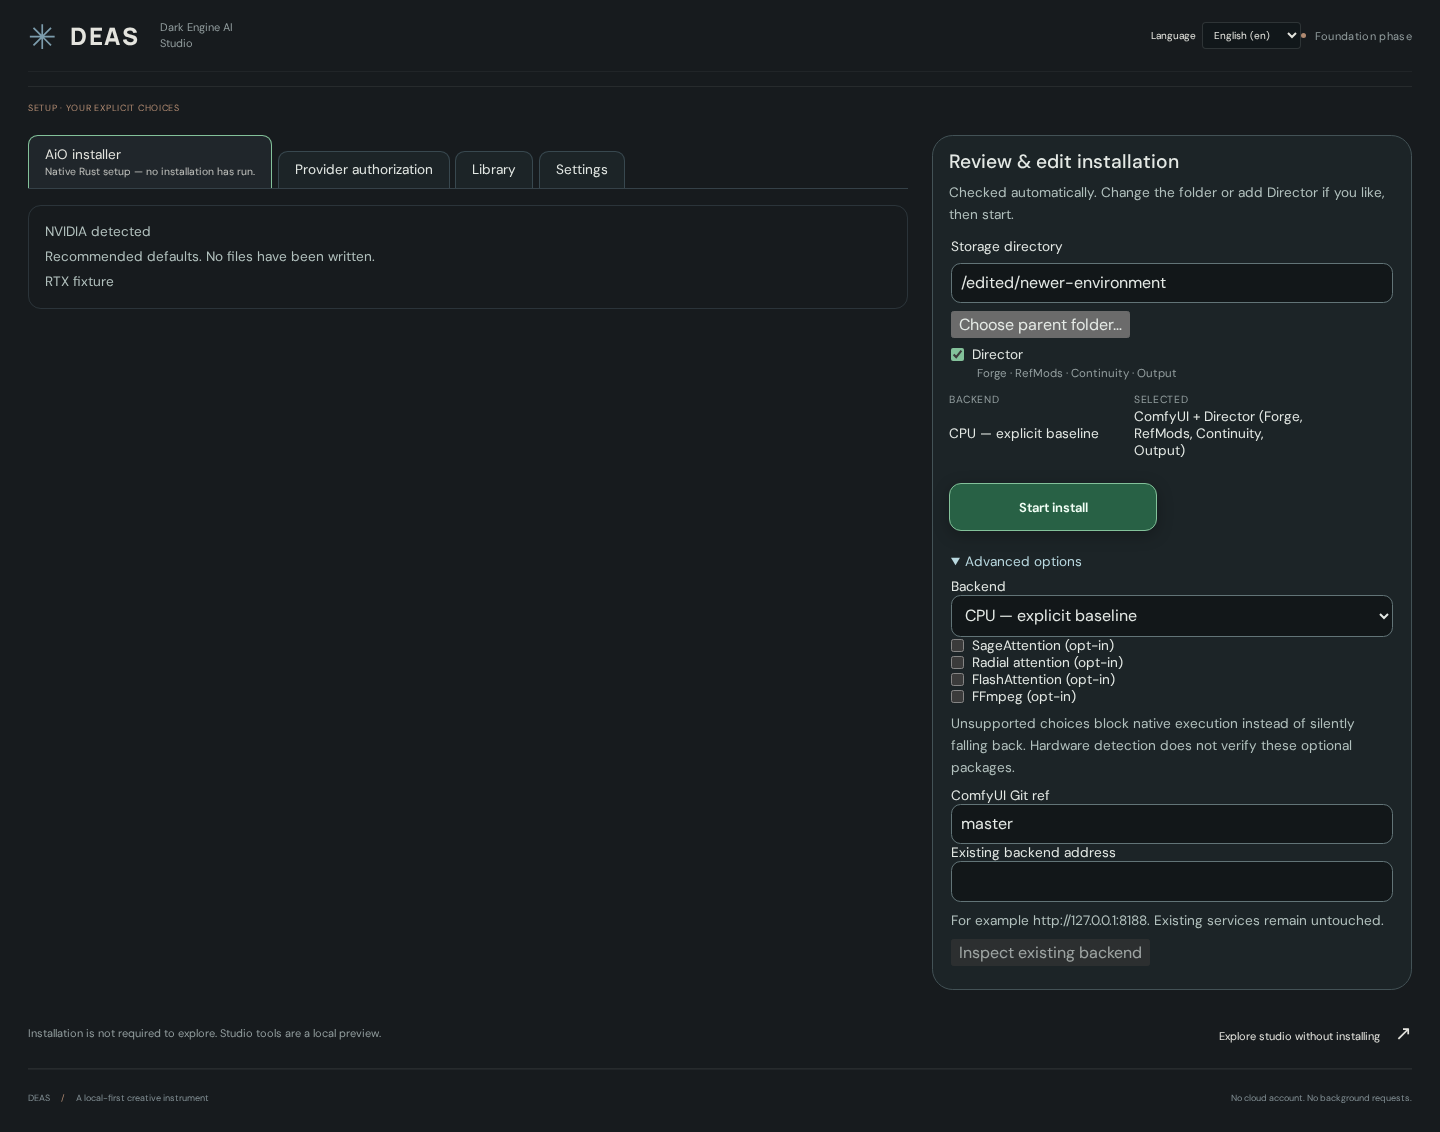
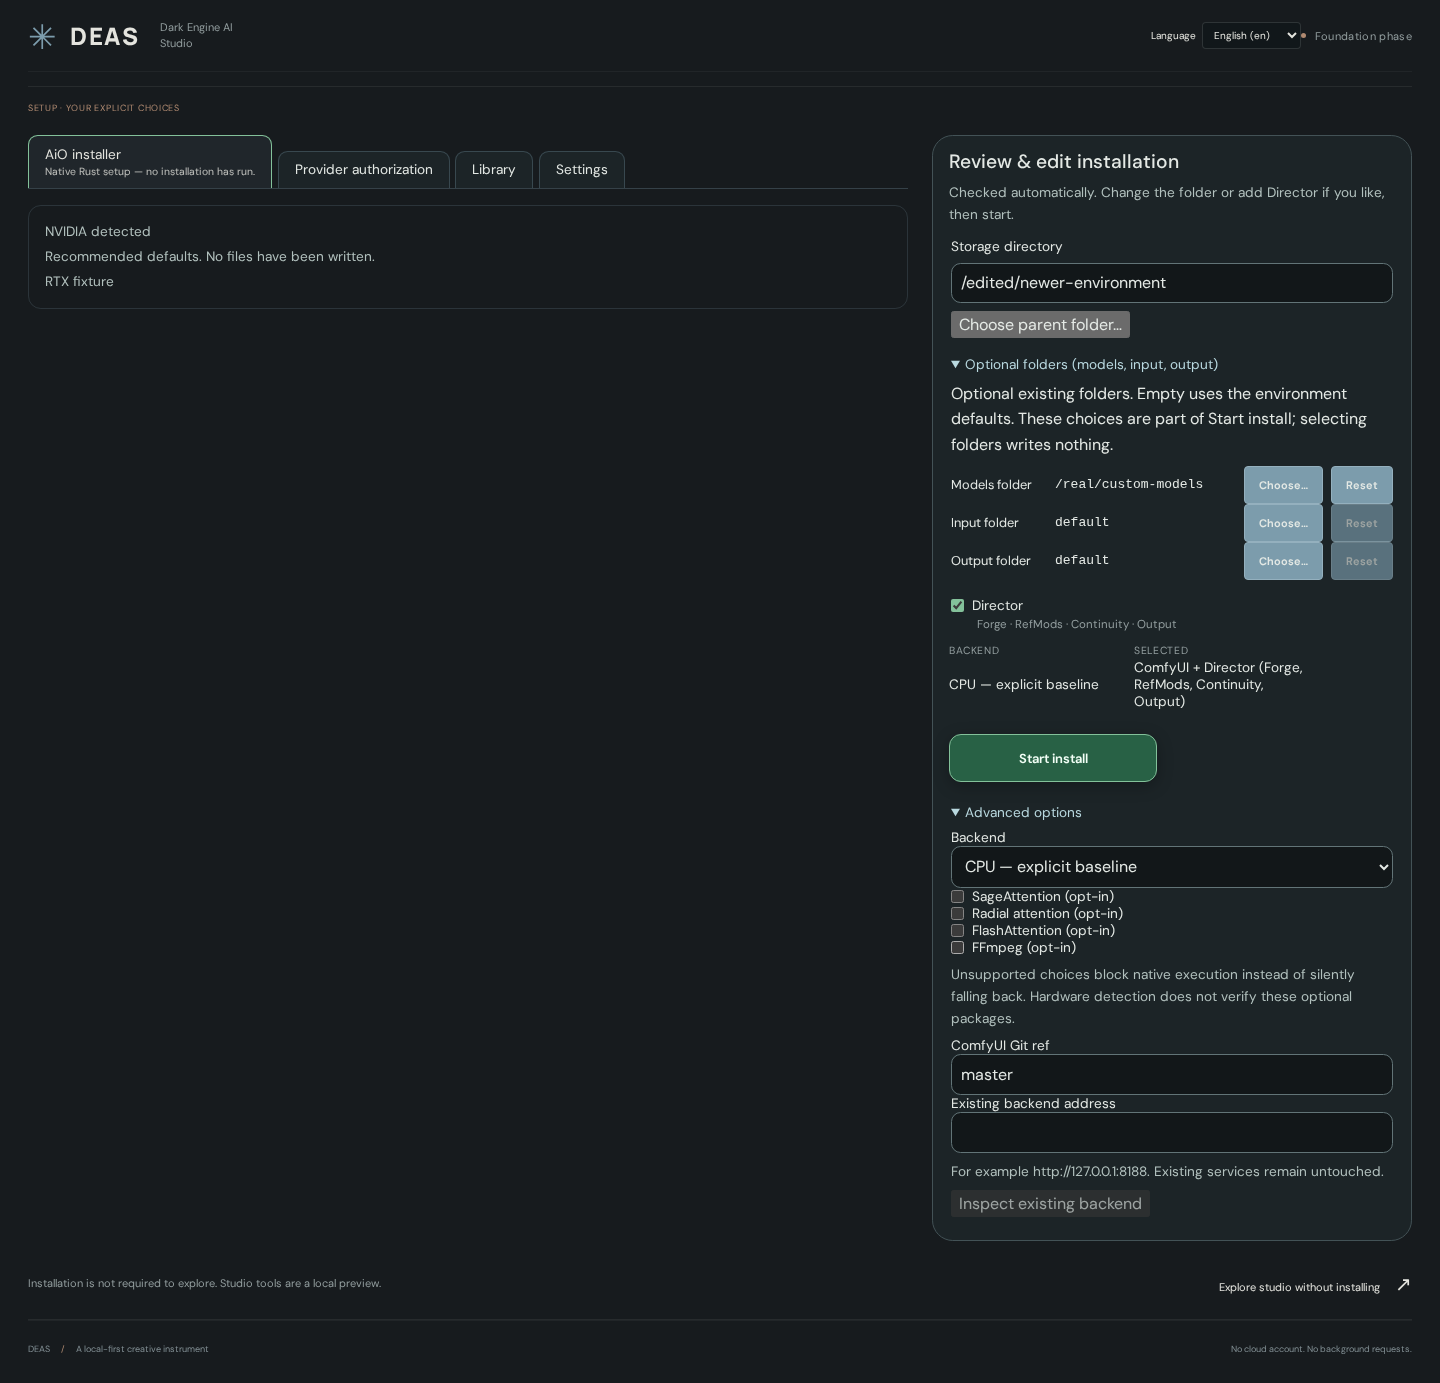
docs: refresh README for 0.1.8 tab-strip UI with current fixture screenshots

diff --git a/README.md b/README.md
@@ -1,10 +1,10 @@
 # DEAS — Dark Engine AI Studio
 
-DEAS is a Rust/Tauri desktop studio with a single-page neural interface for ComfyUI and DaSiWa tools. Connected organic feature blobs show what belongs together; selecting a blob opens its controls within the page.
+DEAS is a Rust/Tauri desktop studio for ComfyUI and DaSiWa tools. Setup is a tab strip — AiO installer, Provider authorization, Library, Settings — with a persistent install review panel. The studio preview shows a workspace map of connected feature blobs; selecting a blob opens its controls within the page.
 
 ## Desktop preview
 
-![DEAS native automatic setup](assets/deas-native-automatic-review.png)
+![Setup tab strip with the install review panel — browser fixture](assets/deas-automatic-fixture-1440.png)
 
 ## Setup path
 
@@ -12,7 +12,13 @@ Setup is one automatic path. A top tab strip carries the Installer tab (pulsing 
 
 Shared `NeuralBlob`, `NeuralPath`, `NeuralGraph` and reusable `NeuralIncludedFeatures` components serve both setup and studio features. Roads offer light, moving cat paws and off modes, with reduced-motion support. See [primitive ownership and references](docs/NEURAL-PRIMITIVES.md).
 
-![Compact capability staircase and history](assets/deas-director-included-1440.png)
+![Install-to-studio handoff with the owned backend running — browser fixture](assets/deas-studio-handoff-fixture-1440.png)
+
+## Studio preview
+
+A successful approved installation opens the studio automatically with **Video**, **Image** and **Workspace map** tabs. The media library loads images and videos via drop or native folder browsing, previews them in browser tabs, and lists exported job outputs. The workspace map shows the Engine, Director and plugin blobs with selectable road animation (Light · Paws · Off). Diagnostic jobs, read-only API checks and the media library are live; inference and editing controls arrive in separate steps.
+
+![Media library with a loaded preview — browser fixture](assets/deas-media-start-1440.png)
 
 ## All-in-one vision — early alpha
 
@@ -26,7 +32,7 @@ Current alpha: **0.1.8** — automatic setup with tab-strip review, installation
 
 The first milestone builds the desktop shell, interactive studio, trusted built-in feature registry and read-only ComfyUI discovery. This is **not yet the completed AiO installer or a generation-ready Director replacement**. Unavailable execution functions are identified in the interface rather than simulated.
 
-The intended AiO product ports capabilities from the [DaSiWa ComfyUI Installer](https://github.com/darksidewalker/dasiwa-comfyui-installer) into DEAS's native Rust engine. It does not bundle or launch an external Go installer. ComfyUI is the baseline; Director is one explicitly selected package including Prompt Forge, RefMods, Continuity and Output. Small passive microbubbles show these included parts; they are not separate optional choices. Successful approved installation opens the studio automatically; installed components need no additional enable action. Starting the owned backend remains explicit. Once native status reports it running, the studio automatically uses its exact endpoint without an extra connection step or automatic inspection/generation. Suggested/Detected are translated badges only, without recommendation connection lines. Hardware recommendations remain editable and do not authorize installation; the final Start install action does. UX languages are data-only plugins with decentralized per-module text resources. Python/PyTorch continue to execute workflows; driver compatibility and model licenses remain explicit prerequisites.
+The intended AiO product ports capabilities from the [DaSiWa ComfyUI Installer](https://github.com/darksidewalker/dasiwa-comfyui-installer) into DEAS's native Rust engine. It does not bundle or launch an external Go installer. ComfyUI is the baseline; Director is one explicitly selected package including Prompt Forge, RefMods, Continuity and Output — shown as a muted subline under the Director checkbox, not as separate optional choices. Successful approved installation opens the studio automatically; installed components need no additional enable action. Starting the owned backend remains explicit. Once native status reports it running, the studio automatically uses its exact endpoint without an extra connection step or automatic inspection/generation. Suggested/Detected are translated badges only, without recommendation connection lines. Hardware recommendations remain editable and do not authorize installation; the final Start install action does. UX languages are data-only plugins with decentralized per-module text resources. Python/PyTorch continue to execute workflows; driver compatibility and model licenses remain explicit prerequisites.
 
 ## Execution-only backend
 
@@ -34,7 +40,7 @@ DEAS owns every feature selection, input/settings control, media reference, job 
 
 ### API discovery and diagnostic compilation
 
-The desktop Engine panel now offers a separate read-only execution-API check. It probes the documented v2 proxy health and protected job listing; Classic queue inspection is selected only when the optional v2 health route returns 404. Authentication, redirects, malformed responses and incompatible contracts remain visible failures. Browser preview fails closed for this native-owned operation. A pure versioned diagnostic checkpoint text-to-image compiler validates explicit intent and supplied verified node/model/sampler/scheduler lists, then builds a deterministic immutable API graph. The Engine panel now offers an explicit native prerequisite check and compile preview using the core `object_info` API. Exact observed checkpoint/sampler/scheduler choices feed DEAS-owned diagnostic controls; missing nodes/models block compilation, and changing the endpoint discards stale evidence. Defaults are 512×512, 20 steps, CFG 7 and seed 0. This is not a Director/video recipe or checkpoint-architecture guarantee. Dynamic Director recipes and real model-generation acceptance remain unfinished.
+The Engine panel offers a separate read-only execution-API check. It probes the documented v2 proxy health and protected job listing; Classic queue inspection is selected only when the optional v2 health route returns 404. Authentication, redirects, malformed responses and incompatible contracts remain visible failures. Browser preview fails closed for this native-owned operation. A pure versioned diagnostic checkpoint text-to-image compiler validates explicit intent and supplied verified node/model/sampler/scheduler lists, then builds a deterministic immutable API graph. The Engine panel offers an explicit native prerequisite check and compile preview using the core `object_info` API. Exact observed checkpoint/sampler/scheduler choices feed DEAS-owned diagnostic controls; missing nodes/models block compilation, and changing the endpoint discards stale evidence. Defaults are 512×512, 20 steps, CFG 7 and seed 0. This is not a Director/video recipe or checkpoint-architecture guarantee. Dynamic Director recipes and real model-generation acceptance remain unfinished.
 
 ### Diagnostic jobs and PNG outputs
 
@@ -48,19 +54,21 @@ Safe cancellation, actual model-generation acceptance and native-webview media a
 
 ![Diagnostic job preview — test fixture, not model-generated](assets/deas-jobs-fixture-1440.png)
 
-## Optional downloads and provider authorization
+## Library, downloads and provider authorization
 
-Separate inline plugins are accessible from setup and the studio plugin area, independently of baseline installation. A strict native TOML catalog feeds the UI; add resources/providers in `src-tauri/downloads/default.toml` or explicitly import an additive catalog for the current session. Browse HF users/model/dataset repositories, CivitAI creators/models, GitHub accounts/repository files, configured HTTPS direct/index sources or an explicitly configured loopback Ollama tags endpoint. Repository listings lead to explicit repository browsing; Ollama tags never imply a pull or downloadable file.
+Provider authorization and the Library are setup tabs; optional downloads are also reachable from the studio plugin area, independently of baseline installation. A strict native TOML catalog feeds the UI; add resources/providers in `src-tauri/downloads/default.toml` or explicitly import an additive catalog for the current session. Browse HF users/model/dataset repositories, CivitAI creators/models, GitHub accounts/repository files, configured HTTPS direct/index sources or an explicitly configured loopback Ollama tags endpoint. Repository listings lead to explicit repository browsing; Ollama tags never imply a pull or downloadable file.
 
 Provider tokens are optional and origin-bound. Session memory is default; OS-store persistence/restoration is explicit and never falls back to plaintext. Downloads use their own immutable plan, native parent-folder selection, a new destination subfolder and separate unchecked consent. Staged files are inert data, not installed models or executed workflows. Linux scratch HTTP transfers and UI/IPC fixtures are tested; live authenticated providers, real OS-store operation, large-download resume and Windows writes remain unverified/unsupported. See [catalog examples, contracts and limits](docs/DOWNLOAD-PLUGINS.md).
 
-The Library sorts catalog cards and loaded file rows by version publication date (newest first), or by name (A–Z). Undated entries come last. Bundled dates are a catalog snapshot; live CivitAI user/search requests ask for newest results. Name sorting covers loaded results, not unseen pages. The 18+ badge reflects the provider’s model classification, not the preview image rating. Opening a CivitAI model lists individual files across its versions (up to 50); quantizations are selected explicitly, never downloaded together automatically. Conflicting destination filenames block the plan instead of overwriting files.
+![Provider authorization tab — browser fixture](assets/deas-downloads-fixture-1440.png)
+
+The Library sorts catalog cards and loaded file rows by version publication date (newest first), or by name (A–Z). Undated entries come last. Bundled dates are a catalog snapshot; live CivitAI user/search requests ask for newest results. Name sorting covers loaded results, not unseen pages. CivitAI browsing defaults to **SFW only**; switching to **+NSFW (18+)** requires an explicit age confirmation, and a base-model filter narrows model lists. The 18+ badge reflects the provider's model classification, not the preview image rating. Opening a CivitAI model lists individual files across its versions (up to 50); quantizations are selected explicitly, never downloaded together automatically. Conflicting destination filenames block the plan instead of overwriting files.
 
 ## Folder selection and relocation
 
 Native folder selection resolves symlink aliases to their real existing directories before planning; installation execution still refuses symlink substitutions. The first installation review offers optional existing models, input and output folders. They remain an in-memory draft until Start install authorizes the immutable plan; no folder settings or data are written by selection alone.
 
-Relocation currently supports Linux; other platforms reject movement without changing files. After installation, Settings separates saving paths from the explicitly selected **Move files & save folders** action. Moving checks all changed trees for conflicting filenames before copying; it never overwrites a destination file. Close other applications using these folders, stop the owned backend and finish downloads first. Copies are verified before settings are switched and originals removed. Errors preserve original data; cleanup warnings identify retained duplicates. Symlinks inside relocated trees and overlapping trees are rejected rather than followed.
+Relocation currently supports Linux; other platforms reject movement without changing files. After installation, the Settings tab separates saving paths from the explicitly selected **Move files & save folders** action. Moving checks all changed trees for conflicting filenames before copying; it never overwrites a destination file. Close other applications using these folders, stop the owned backend and finish downloads first. Copies are verified before settings are switched and originals removed. Errors preserve original data; cleanup warnings identify retained duplicates. Symlinks inside relocated trees and overlapping trees are rejected rather than followed.
 
 ## Language plugins
 
